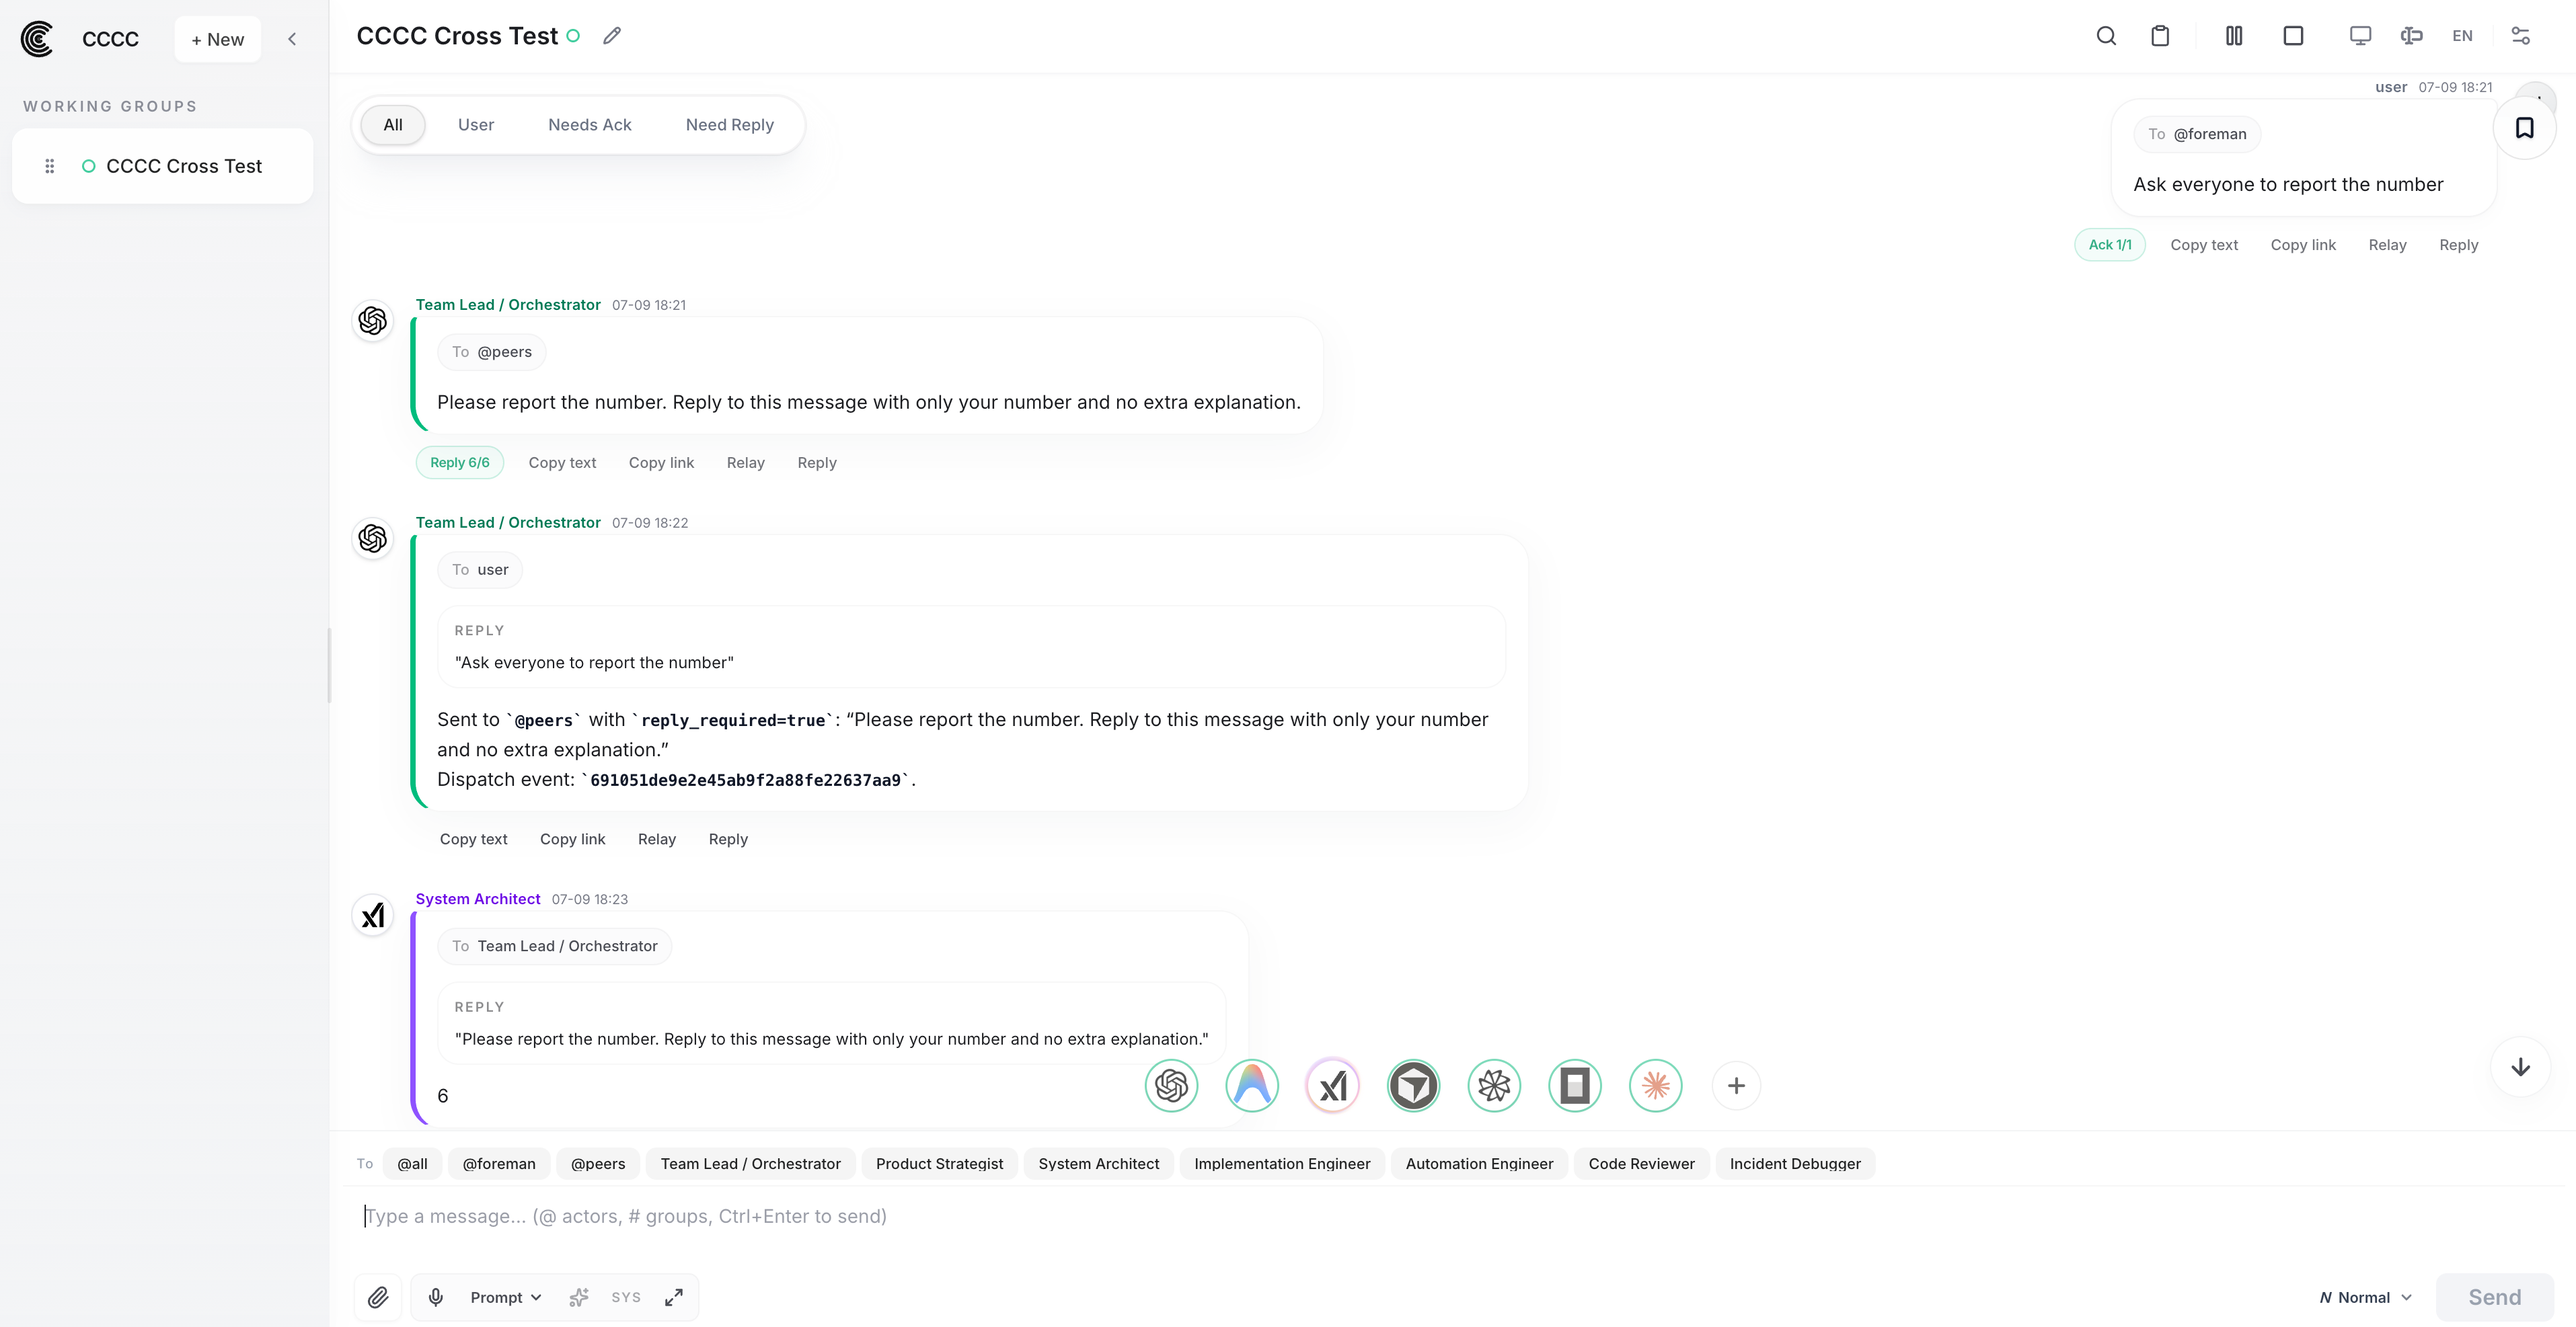
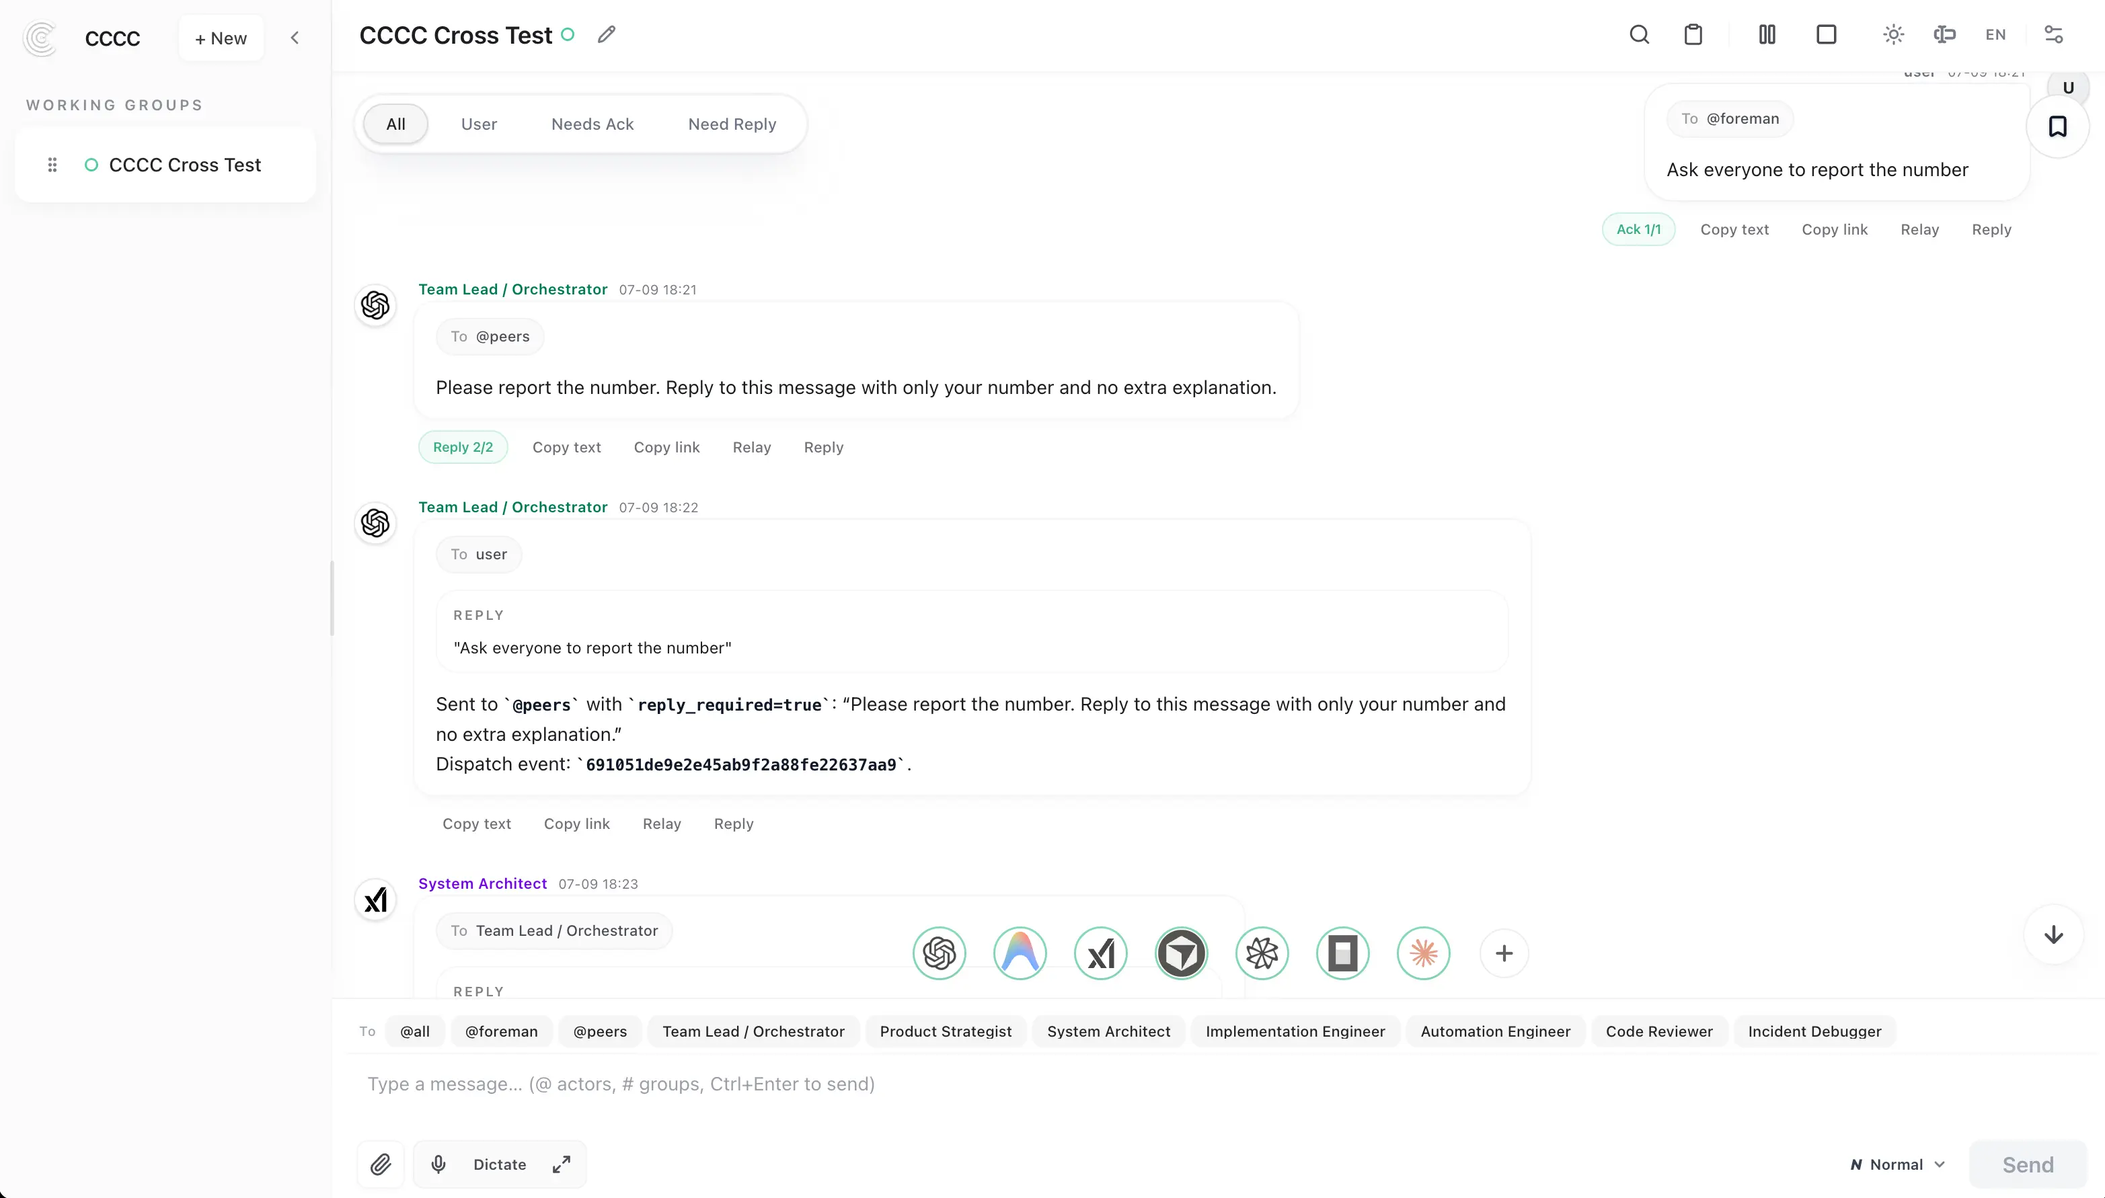
style(web): unify message surfaces and refresh screenshots

diff --git a/web/src/components/MessageBubble.tsx b/web/src/components/MessageBubble.tsx
@@ -52,31 +52,11 @@ import {
 } from "./messageBubble/helpers";
 import { AgentStateTooltip } from "./messageBubble/AgentStateTooltip";
 import { MessageContent } from "./messageBubble/MessageContent";
+import { MessageBubbleSurface } from "./messageBubble/MessageBubbleSurface";
 import { buildMessageCopyText } from "./messageBubble/messageCopyText";
 
 const ANIMATED_MESSAGE_BUBBLE_KEYS = new Set<string>();
 const NEW_MESSAGE_ANIMATION_WINDOW_MS = 12000;
-
-const ACCENT_BORDER_CLASSES: Record<string, string> = {
-  // Dark mode accents
-  "text-sky-300": "border-l-sky-400/80",
-  "text-indigo-300": "border-l-indigo-400/80",
-  "text-violet-300": "border-l-violet-400/80",
-  "text-fuchsia-300": "border-l-fuchsia-400/80",
-  "text-cyan-300": "border-l-cyan-400/80",
-  "text-teal-300": "border-l-teal-400/80",
-  "text-emerald-300": "border-l-emerald-400/80",
-  "text-amber-300": "border-l-amber-400/80",
-  // Light mode accents
-  "text-sky-700": "border-l-sky-500",
-  "text-indigo-700": "border-l-indigo-500",
-  "text-violet-700": "border-l-violet-500",
-  "text-fuchsia-700": "border-l-fuchsia-500",
-  "text-cyan-700": "border-l-cyan-500",
-  "text-teal-700": "border-l-teal-500",
-  "text-emerald-700": "border-l-emerald-500",
-  "text-amber-700": "border-l-amber-500",
-};
 
 const TASK_REF_STATE_TONE_CLASS: Record<TaskRefStateKey, string> = {
   planned:
@@ -905,26 +885,12 @@ export const MessageBubble = memo(
                 {t("important")}
               </span>
             )}
-            <div
-              className={classNames(
-                "inline-flex max-w-full flex-col px-4 py-3 text-sm leading-relaxed transition-[opacity,transform,box-shadow,background-color,border-color] duration-200 ease-out",
-                isStreaming ? "opacity-95 translate-y-0" : "opacity-100 translate-y-0",
-                bubbleMotionClass,
-                isUserMessage
-                  ? "glass-bubble w-auto min-w-[min(18rem,70vw)] rounded-[22px] rounded-tr-md"
-                  : classNames(
-                      "w-full rounded-[22px] rounded-tl-md border-y border-r border-l-4 bg-[var(--glass-panel-bg)] text-[var(--color-text-primary)] shadow-[0_10px_28px_rgba(15,23,42,0.04)] dark:shadow-[0_10px_28px_rgba(0,0,0,0.25)]",
-                      "border-y-[var(--glass-border-subtle)] border-r-[var(--glass-border-subtle)]",
-                      isGroupBridgeSource
-                        ? "border-l-emerald-500/85 bg-emerald-50/35 dark:border-l-emerald-400/80 dark:bg-emerald-950/15"
-                        : ACCENT_BORDER_CLASSES[senderAccent?.text || ""] ||
-                            "border-l-[var(--glass-border-subtle)]",
-                    ),
-                isAttention ? "ring-1 ring-amber-400/40 dark:ring-amber-500/40" : "",
-                isHighlighted
-                  ? "outline outline-2 outline-[rgb(35,36,37)]/16 outline-offset-2 dark:outline-white/18"
-                  : "",
-              )}
+            <MessageBubbleSurface
+              isUserMessage={isUserMessage}
+              isStreaming={isStreaming}
+              motionClass={bubbleMotionClass}
+              isAttention={isAttention}
+              isHighlighted={Boolean(isHighlighted)}
             >
               <MessageBubbleBody
                 event={ev}
@@ -959,7 +925,7 @@ export const MessageBubble = memo(
                 onOpenTaskRef={onOpenTaskRef}
                 onOpenReplyTarget={onOpenReplyTarget}
               />
-            </div>
+            </MessageBubbleSurface>
           </div>
 
           <MessageFooter

diff --git a/web/src/components/messageBubble/MessageBubbleSurface.tsx b/web/src/components/messageBubble/MessageBubbleSurface.tsx
@@ -1,0 +1,67 @@
+import type { ReactNode } from "react";
+
+import { classNames } from "../../utils/classNames";
+import { Surface } from "../ui/surface";
+
+interface MessageBubbleSurfaceProps {
+  children: ReactNode;
+  isUserMessage: boolean;
+  isStreaming: boolean;
+  motionClass: string;
+  isAttention: boolean;
+  isHighlighted: boolean;
+}
+
+function sharedClasses({
+  isStreaming,
+  motionClass,
+  isAttention,
+  isHighlighted,
+}: Omit<MessageBubbleSurfaceProps, "children" | "isUserMessage">): string {
+  return classNames(
+    "inline-flex max-w-full min-w-0 flex-col px-4 py-3 text-sm leading-relaxed",
+    "transition-[opacity,transform,box-shadow,background-color,border-color] duration-200 ease-out",
+    isStreaming ? "translate-y-0 opacity-95" : "translate-y-0 opacity-100",
+    motionClass,
+    isAttention ? "ring-1 ring-amber-400/40 dark:ring-amber-500/40" : "",
+    isHighlighted ? "outline outline-2 outline-[var(--glass-accent-border)] outline-offset-2" : "",
+  );
+}
+
+export function MessageBubbleSurface({
+  children,
+  isUserMessage,
+  isStreaming,
+  motionClass,
+  isAttention,
+  isHighlighted,
+}: MessageBubbleSurfaceProps) {
+  const className = sharedClasses({ isStreaming, motionClass, isAttention, isHighlighted });
+
+  if (isUserMessage) {
+    return (
+      <div
+        className={classNames(
+          className,
+          "glass-bubble w-auto min-w-[min(18rem,70vw)] rounded-[22px] rounded-tr-md",
+        )}
+      >
+        {children}
+      </div>
+    );
+  }
+
+  return (
+    <Surface
+      variant="subtle"
+      padding="none"
+      radius="lg"
+      className={classNames(
+        className,
+        "w-full text-[var(--color-text-primary)] shadow-[var(--glass-bubble-shadow)]",
+      )}
+    >
+      {children}
+    </Surface>
+  );
+}

diff --git a/web/src/components/messageBubble/MessageBubbleSurface.test.tsx b/web/src/components/messageBubble/MessageBubbleSurface.test.tsx
@@ -1,0 +1,39 @@
+import { renderToStaticMarkup } from "react-dom/server";
+import { describe, expect, it } from "vite-plus/test";
+
+import { MessageBubbleSurface } from "./MessageBubbleSurface";
+
+function renderSurface(isUserMessage: boolean): string {
+  return renderToStaticMarkup(
+    <MessageBubbleSurface
+      isUserMessage={isUserMessage}
+      isStreaming={false}
+      motionClass=""
+      isAttention={false}
+      isHighlighted={false}
+    >
+      <p>Long product content remains inside the responsive message surface.</p>
+    </MessageBubbleSurface>,
+  );
+}
+
+describe("MessageBubbleSurface", () => {
+  it("uses a neutral product surface for assistant messages", () => {
+    const markup = renderSurface(false);
+
+    expect(markup).toContain("max-w-full min-w-0");
+    expect(markup).toContain("rounded-2xl");
+    expect(markup).toContain("border-[var(--glass-border-subtle)]");
+    expect(markup).toContain("shadow-[var(--glass-bubble-shadow)]");
+    expect(markup).not.toContain("border-l-4");
+    expect(markup).not.toMatch(/border-l-(?:sky|indigo|violet|fuchsia|cyan|teal|emerald|amber)/);
+  });
+
+  it("keeps the compact user bubble treatment", () => {
+    const markup = renderSurface(true);
+
+    expect(markup).toContain("glass-bubble");
+    expect(markup).toContain("rounded-tr-md");
+    expect(markup).toContain("min-w-[min(18rem,70vw)]");
+  });
+});

diff --git a/README.zh-CN.md b/README.zh-CN.md
@@ -31,7 +31,9 @@ Claude Code、Codex、ChatGPT Web 等 17 种运行时，在同一个持久协作
 
 <div align="center">
 
-<img src="screenshots/overview.webp" alt="CCCC Web UI 概览" width="100%">
+<img src="screenshots/overview.webp" alt="CCCC Web UI 桌面端概览" width="76%">
+&nbsp;
+<img src="screenshots/iphone.webp" alt="CCCC Web UI 移动端概览" width="20%">
 
 </div>
 
@@ -331,10 +333,6 @@ CCCC 实现的是 IM 级消息语义，而不是"往终端里粘贴一段文字"
 - **设置** — 消息策略、触达调优、终端日志控制
 - **文本缩放** — 90% / 100% / 125% 三级字体大小，按浏览器持久化
 - **亮色 / 暗色 / 跟随系统 主题**
-
-| 聊天 | 终端 |
-|:----:|:----:|
-| ![Chat](screenshots/chat.png) | ![Terminal](screenshots/terminal.png) |
 
 ### 远程访问
 

diff --git a/README.md b/README.md
@@ -31,7 +31,9 @@ One install command. No Rust toolchain or infrastructure required.
 
 <div align="center">
 
-<img src="screenshots/overview.webp" alt="CCCC Web UI overview" width="100%">
+<img src="screenshots/overview.webp" alt="CCCC Web UI desktop overview" width="76%">
+&nbsp;
+<img src="screenshots/iphone.webp" alt="CCCC Web UI mobile overview" width="20%">
 
 </div>
 
@@ -337,10 +339,6 @@ The built-in Web UI at `http://127.0.0.1:8848` provides:
 - **Settings** — messaging policies, delivery tuning, terminal transcript controls
 - **Text scale** — 90% / 100% / 125% font size with per-browser persistence
 - **Light / Dark / System themes**
-
-| Chat | Terminal |
-|:----:|:-------:|
-| ![Chat](screenshots/chat.png) | ![Terminal](screenshots/terminal.png) |
 
 ### Remote access
 
